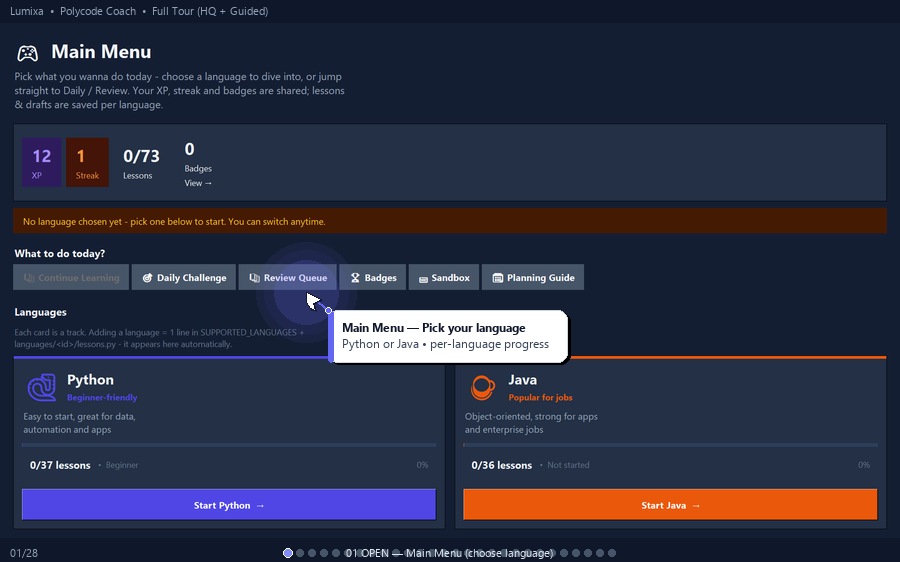
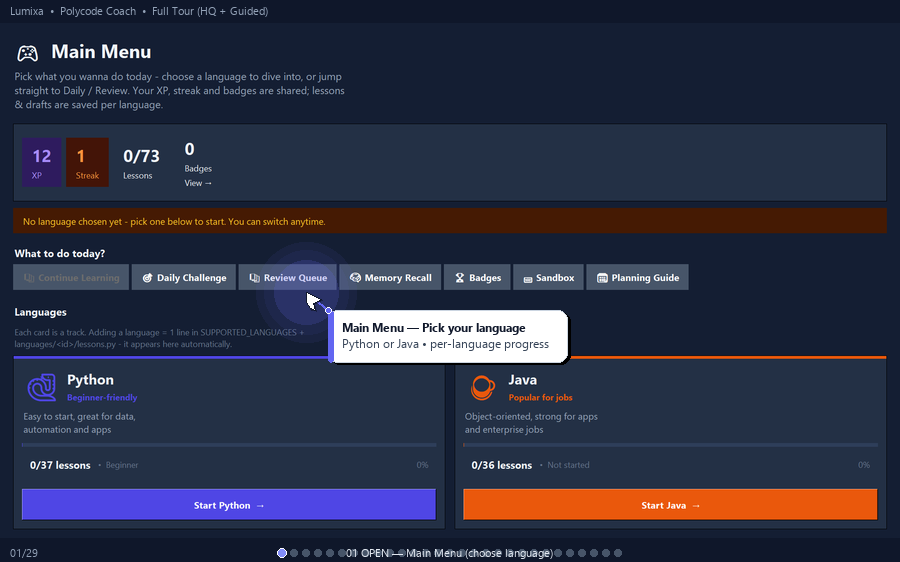
docs: recreate demo.gif — full 29-frame HQ tour covering all tabs (adds Memory Mode)
- Guided tour now 29 frames, 900px, 35s, 2.36 MB (global palette + Floyd-Steinberg)
- Covers every important tab: Main Menu (Python/Java) -> Welcome -> Placement Quiz -> Result -> Learning (Concept/Practice/Debug->Coach->Fix) -> Final Project -> Progress (5 tabs: Overview/Activity/Reflex/Mistakes/Retention + heatmap) -> Skill Tree -> Review -> Drills -> Daily Challenge -> Memory Mode (See -> Hide -> Retype 10/20/30s) -> Sandbox (20 cards + Run output) -> Badges (23) -> Settings (theme + Backup & Restore) -> Planning Guide -> END
- Adds Memory Mode (v1.1) step: timed recall with Code Reflex scoring, previously missing from 28-frame tour
- Cursor + halo + callout bubbles, top/bottom bars with progress dots, click ripple
- README: update caption to 29 frames/35s, insert Memory Mode in flow, flesh out What it does + Journey to document v1.1 pillars (Reflex/Mistakes/Retention, Drill Hub vs Memory distinction, 7 primary + More dropdown tab layout that fits 1060x740)
- Captured live via ImageGrab (all 29 GRAB, not synthetic) at 1920x1200 fullscreen downscaled LANCZOS to 900x562

Changed region(s): [[0.3733, 0.4537, 0.7778, 0.5142], [0.3111, 0.968, 0.6844, 0.9982]]

diff --git a/README.md b/README.md
@@ -1,7 +1,7 @@
 # Polycode Coach — Code Learning Coach
 
 ![demo](demo.gif)
-<p align="center"><em>Full guided tour (32s, 900px, 28 frames) — Cold start → Pick Python → Welcome → Placement Quiz → Result (Beginner) → Learning: Concept → Practice (type → Run → +5 XP) → Debug (broken → Coach hint → Fix +8 XP) → Final Project → Progress (XP/streak/heatmap) → Skill Tree → Review → Drills → Daily Challenge → Sandbox Cards → Sandbox Run (output) → Badges → Settings → Planning Guide — cursor + callouts, global palette</em></p>
+<p align="center"><em>Full guided tour (35s, 900px, 29 frames) — Cold start → Pick Python → Welcome → Placement Quiz → Result (Beginner) → Learning: Concept → Practice (type → Run → +5 XP) → Debug (broken → Coach hint → Fix +8 XP) → Final Project → Progress (XP/streak/heatmap) → Skill Tree → Review → Drills → Daily Challenge → Memory Mode (See → Hide → Retype) → Sandbox Cards → Sandbox Run (output) → Badges → Settings → Planning Guide — cursor + callouts, global palette</em></p>
 
 A Tkinter app that assesses your level in Python & Java, then walks you through
 interactive lessons with hands-on code practice, quizzes, final projects,
@@ -52,14 +52,14 @@ py lumixa.py
   and on exit, so reopening the app puts your exact code back with nothing
   retyped.
 - Final projects per lesson with progressive starting hints
-- XP, streaks, level roadmap, and progress dashboard
-- Spaced-repetition review queue
+- XP, streaks, level roadmap, and progress dashboard — now with 5 tabs: **Overview, Activity (heatmap), Reflex (0-1000 score), Mistakes (top 5 + targeted practice), Retention (% mastery)**
+- Spaced-repetition review queue + **Drill Hub** (muscle-memory reps, visible notes, 3× perfect retypes, 1/2/4/7-day spacing) + **Memory Mode** (timed recall: See → Hide → Retype, 10s/20s/30s, 50% line + 50% char accuracy, Code Reflex score)
 - **Adaptive coaching** — the Progress page reads your performance log and
   highlights the units you found hardest, with a "Strengthen" button to jump
-  straight back to a weak lesson
+  straight back to a weak lesson — plus **Mistake Analytics** that classifies your errors and suggests drills
 - **Autosave** — progress is saved atomically (crash-safe) after every step,
   lesson, project, and review, plus a periodic backup and a final save on close
-- Light/dark themes and fullscreen
+- Light/dark themes and fullscreen — tabs now organized as 7 primary + **More** dropdown (Review/Drills/Skill Tree/Badges/Planning) so every feature fits 1060×740
 
 ## The Goal of the App
 
@@ -82,8 +82,9 @@ Here is the journey:
    your current level and lesson topic, so it stretches you where you already are
    (pure-code problems plus the bundled dataset challenges).
 6. **Revisit your reviews** — spaced repetition re-surfaces lessons you
-   found hard so the material actually sticks.
-7. **Pass the level quiz** to unlock the next level (Beginner → Intermediate →
+   found hard so the material actually sticks. For muscle memory, use **Drills** (visible with notes, 3 perfect retypes, then 1/2/4/7-day spacing) — and for true recall, try **Memory Mode** (See → Hide → Retype, 10s/20s/30s timed, scored 50% line + 50% char).
+7. **Track mastery on Progress** — 5 tabs: **Overview, Activity (heatmap), Reflex (0–1000 Code Reflex score), Mistakes (top 5 + targeted drills), Retention (% per concept)**. The **Skill Tree** shows your visual roadmap; **Badges** (23) and **Planning Guide** (2/4/6-week tracks) keep you motivated and organized.
+8. **Pass the level quiz** to unlock the next level (Beginner → Intermediate →
    Advanced) and keep going until you've finished every lesson.
 
 ## How to Earn XP
